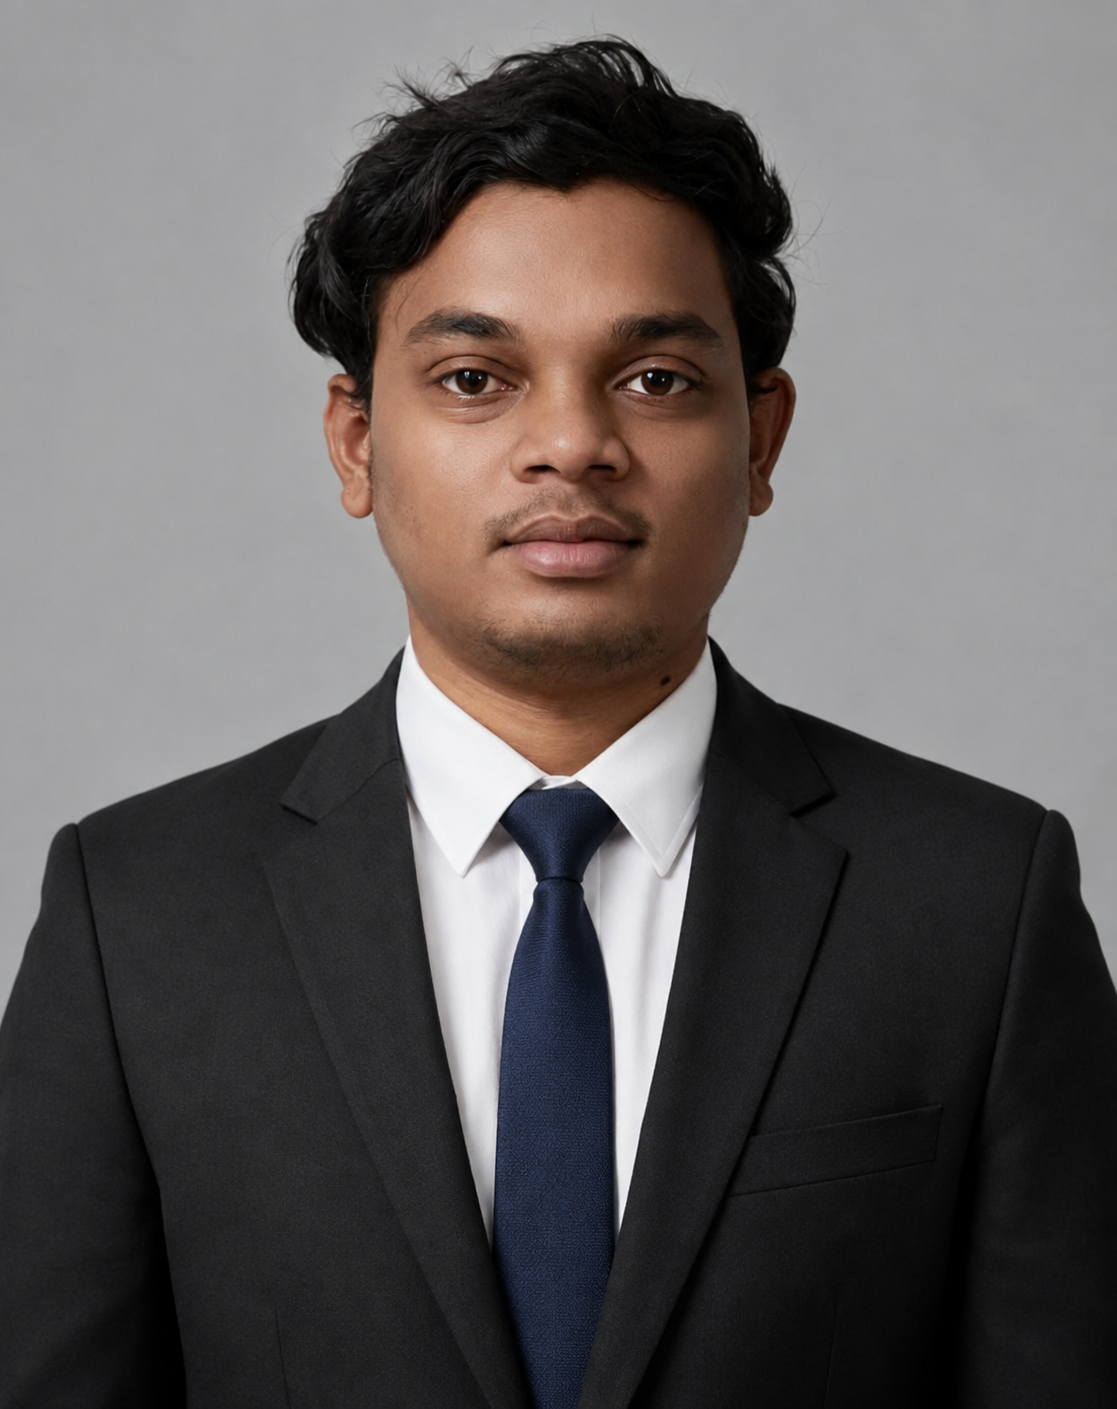
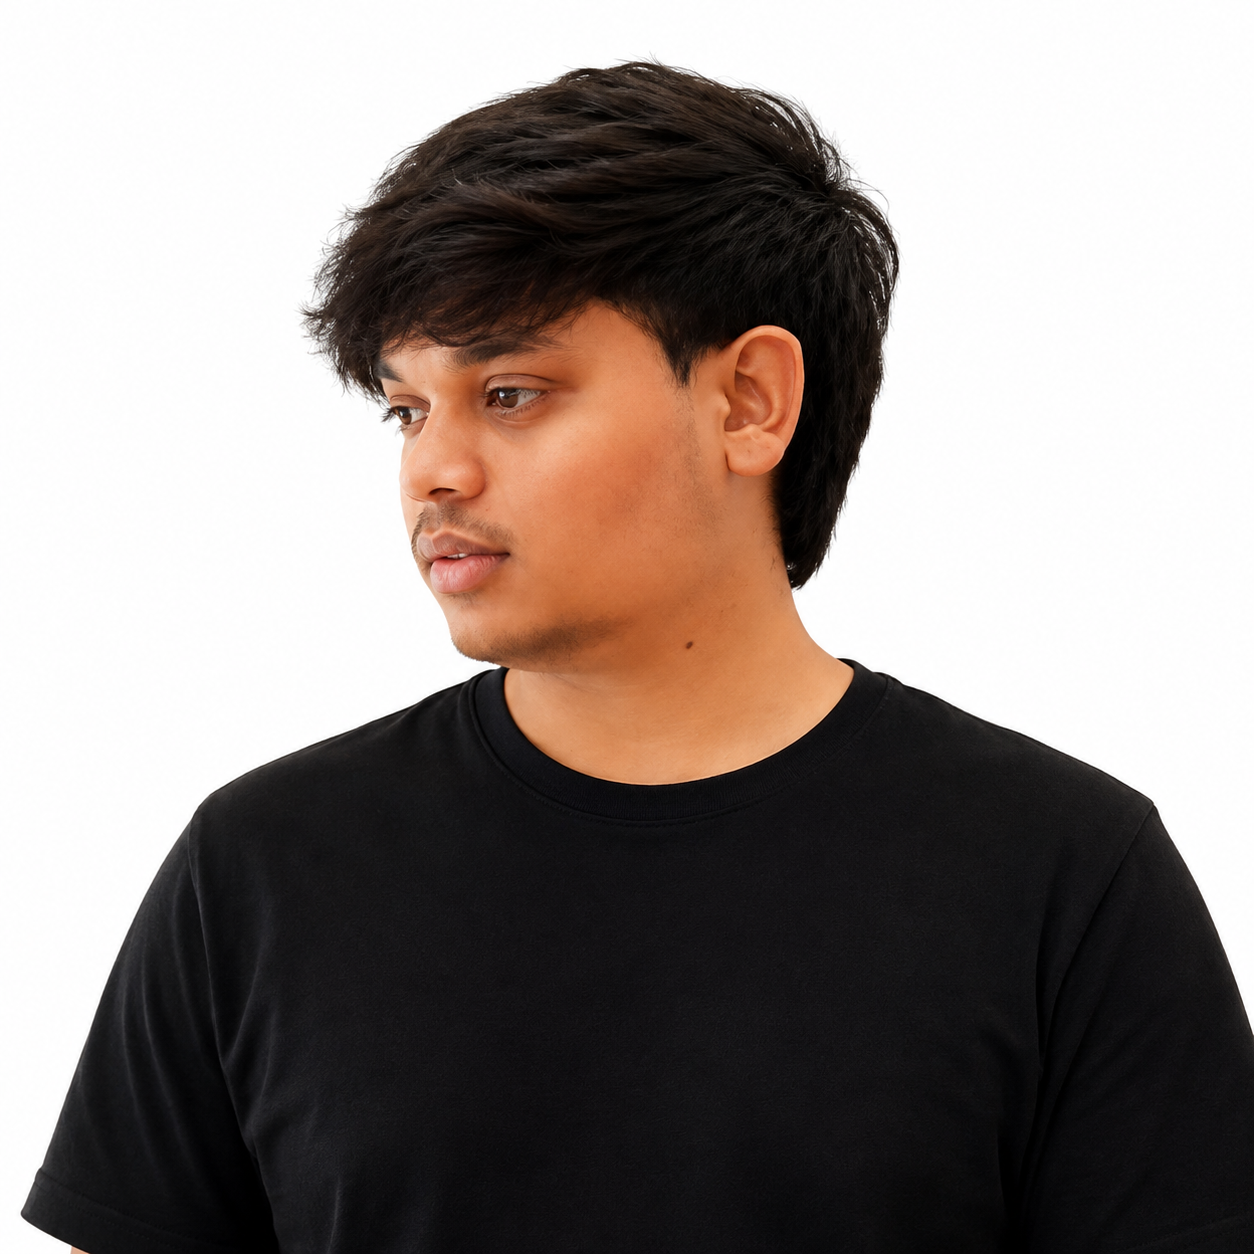
Update portfolio experience and profile image

diff --git a/frontend/index.html b/frontend/index.html
@@ -27,6 +27,7 @@
       <a href="#home">Home</a>
       <a href="#about">About</a>
       <a href="#skills">Skills</a>
+      <a href="#experience">Experience</a>
       <a href="#projects">Projects</a>
       <a href="#contact">Contact</a>
     </nav>
@@ -203,7 +204,52 @@
 
   </section>
 
+<!-- WORK EXPERIENCE -->
+<section id="experience" class="section dark-section">
 
+  <h2 class="section-title">Work Experience</h2>
+
+  <div class="experience-container">
+
+    <div class="experience-card">
+      <div class="experience-icon">
+        <i class="fa-solid fa-briefcase"></i>
+      </div>
+
+      <div class="experience-content">
+        <h3>Process Associate</h3>
+        <h4>Genpact</h4>
+        <span class="experience-date">August 2024 – October 2025</span>
+
+        <p>
+          Worked as a Process Associate at Genpact, contributing to day-to-day
+          business operations while developing strong attention to detail,
+          problem-solving, communication, and process management skills.
+        </p>
+      </div>
+    </div>
+
+    <div class="experience-card">
+      <div class="experience-icon">
+        <i class="fa-solid fa-chart-line"></i>
+      </div>
+
+      <div class="experience-content">
+        <h3>Data Analyst </h3>
+        <h4>Hexa Solutions</h4>
+        <span class="experience-date">July 2026 – August 2026</span>
+
+        <p>
+          Completed a virtual internship focused on Data Analytics,
+          gaining practical exposure to analytical thinking and
+          data-driven problem solving.
+        </p>
+      </div>
+    </div>
+
+  </div>
+
+</section>
   <!-- PROJECTS -->
   <section id="projects" class="section">
 

diff --git a/frontend/style.css b/frontend/style.css
@@ -429,6 +429,66 @@ nav a:hover::after {
   color: black;
 }
 
+/* WORK EXPERIENCE */
+
+.experience-container {
+  max-width: 900px;
+  margin: auto;
+  display: grid;
+  gap: 30px;
+}
+
+.experience-card {
+  display: flex;
+  gap: 25px;
+  padding: 30px;
+  background: #111a2e;
+  border-radius: 15px;
+  text-align: left;
+  border: 1px solid transparent;
+  transition: 0.4s;
+}
+
+.experience-card:hover {
+  transform: translateY(-8px);
+  border-color: #00e5ff;
+  box-shadow: 0 20px 40px rgba(0, 229, 255, 0.15);
+}
+
+.experience-icon {
+  min-width: 55px;
+  height: 55px;
+  border-radius: 50%;
+  background: #00e5ff;
+  color: #000;
+  display: flex;
+  align-items: center;
+  justify-content: center;
+  font-size: 22px;
+}
+
+.experience-content h3 {
+  font-size: 22px;
+  margin-bottom: 5px;
+}
+
+.experience-content h4 {
+  color: #00e5ff;
+  font-size: 17px;
+  font-weight: 500;
+}
+
+.experience-date {
+  display: inline-block;
+  margin: 8px 0 12px;
+  color: #a8b2d1;
+  font-size: 14px;
+}
+
+.experience-content p {
+  color: #a8b2d1;
+  line-height: 1.7;
+}
 
 /* PROJECTS */
 
